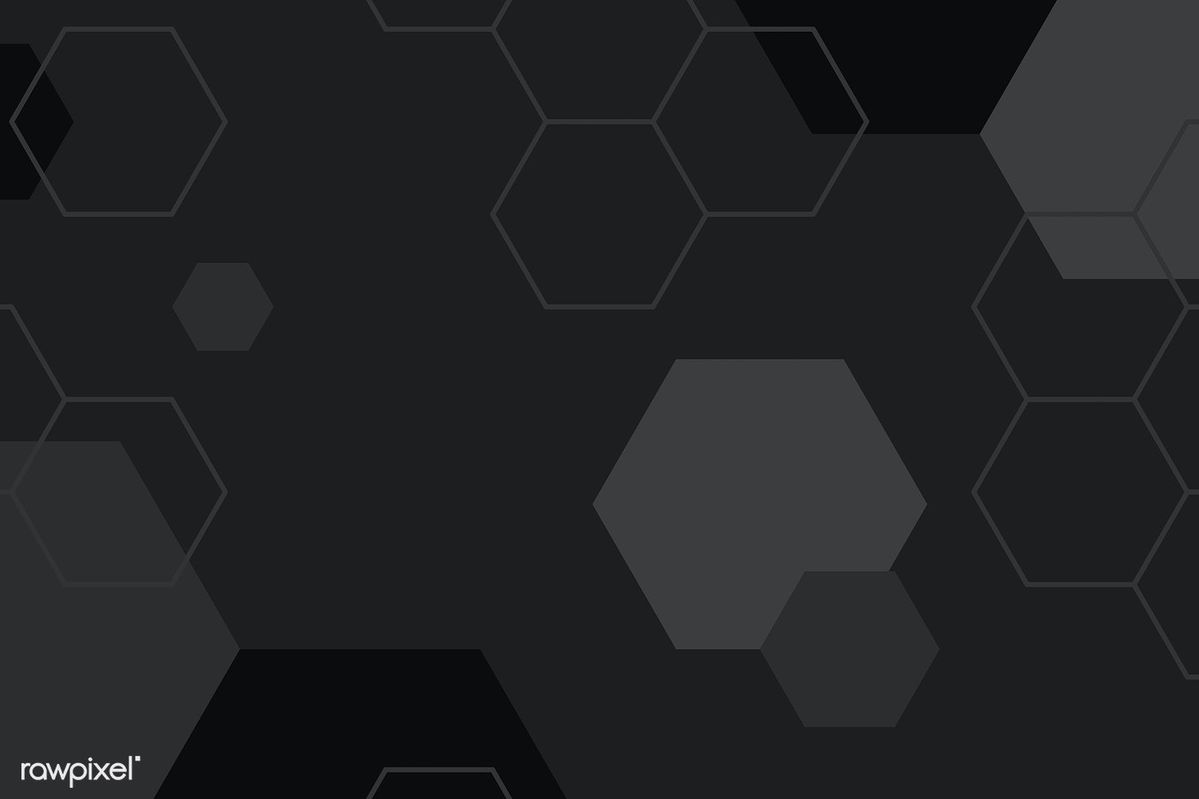
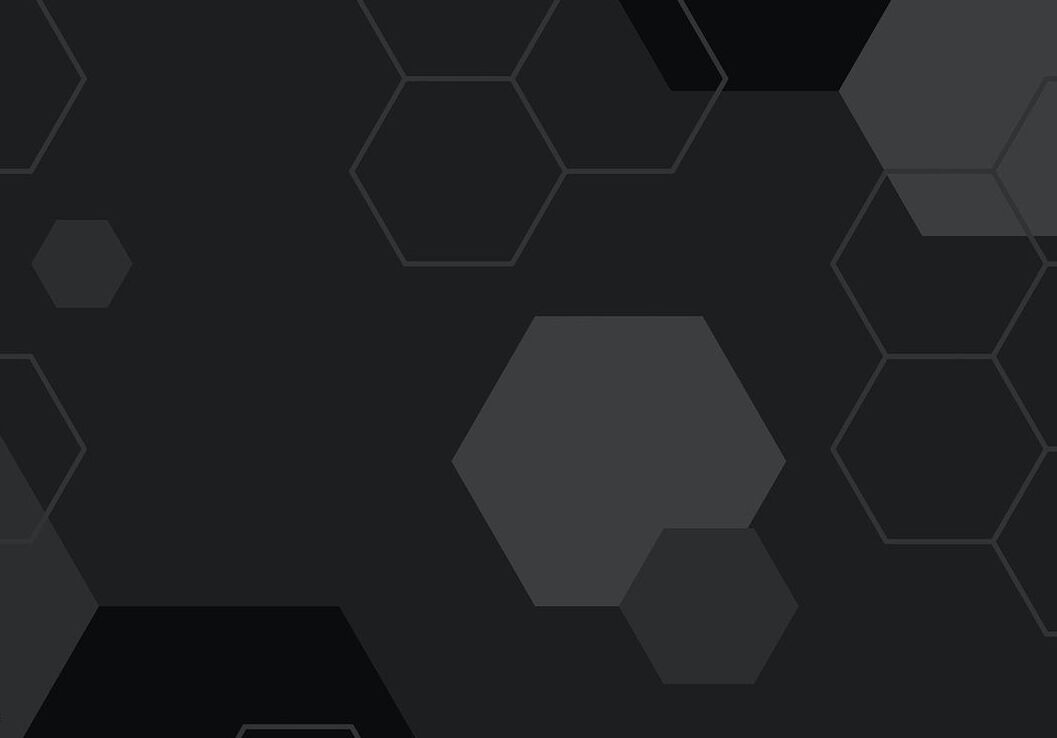
update exercice-fergani branch: added new assets and component updates

diff --git a/iron-gym/src/Component/ExerciseGuide/ExerciseGuide.jsx b/iron-gym/src/Component/ExerciseGuide/ExerciseGuide.jsx
@@ -2,6 +2,9 @@ import React, { useContext, useEffect, useState } from 'react';
 import { Link, useParams } from 'react-router-dom';
 import axios from 'axios';
 import { UserContext } from '../../Context/UserContext';
+import Loading from '../Loading/Loading';
+import bg from '../../assets/bg.jpg';
+import bg_dmbl from '../../assets/bg_dmbl.jpg';
 
 export default function ExerciseGuide() {
   const { muscleName } = useParams(); // الحصول على اسم العضلة من الـ URL
@@ -45,33 +48,71 @@ export default function ExerciseGuide() {
   }, [muscleName]);
 
   return (
-    <div>
-      <h2 className="text-3xl font-bold mb-4">Exercises for {muscleName}</h2>
+    <section className='bg-[rgb(102,102,102,.3)]'>
+  <div
+          className="h-[70vh] bg-cover bg-center relative"
+          style={{ backgroundImage: `url(${bg_dmbl})` }}
+        >
+          <div className="absolute bottom-0 left-0 w-full">
+          <svg xmlns="http://www.w3.org/2000/svg" viewBox="0 0 1440 320"><path fill="#273036" fill-opacity="0.7" d="M0,128L18.5,128C36.9,128,74,128,111,112C147.7,96,185,64,222,74.7C258.5,85,295,139,332,176C369.2,213,406,235,443,229.3C480,224,517,192,554,192C590.8,192,628,224,665,229.3C701.5,235,738,213,775,213.3C812.3,213,849,235,886,234.7C923.1,235,960,213,997,176C1033.8,139,1071,85,1108,64C1144.6,43,1182,53,1218,74.7C1255.4,96,1292,128,1329,117.3C1366.2,107,1403,53,1422,26.7L1440,0L1440,320L1421.5,320C1403.1,320,1366,320,1329,320C1292.3,320,1255,320,1218,320C1181.5,320,1145,320,1108,320C1070.8,320,1034,320,997,320C960,320,923,320,886,320C849.2,320,812,320,775,320C738.5,320,702,320,665,320C627.7,320,591,320,554,320C516.9,320,480,320,443,320C406.2,320,369,320,332,320C295.4,320,258,320,222,320C184.6,320,148,320,111,320C73.8,320,37,320,18,320L0,320Z"></path></svg>
+          </div>
+        </div>
 
-      {loading ? (
-        <p>Loading exercises...</p>
-      ) : exercises.length === 0 ? (
-        <p>No exercises found for {muscleName}. Try another muscle group.</p>
-      ) : (
-        <ul className="space-y-4">
-         {exercises.map((exercise) => (
-  <li key={exercise._id} className="p-4 border rounded shadow-sm hover:bg-gray-100 transition">
-    <Link to={`/exercise/details/${exercise._id}`}>
-      <h3 className="text-xl font-semibold">{exercise.name}</h3>
-      <img 
-        src={exercise.image} 
-        alt={exercise.name}
-        className="w-full h-48 object-cover mt-2 rounded"
-      />
-      <div className="mt-2">
-        <h4 className="font-medium">Primary Muscle:</h4>
-        <p>{exercise.muscleGroup?.name || exercise.primaryMuscle?.join(', ')}</p>
-      </div>
-    </Link>
-  </li>
-))}   
-        </ul>
-      )}
+
+<div  className="relative w-full bg-repeat bg-top py-10"
+style={{ backgroundImage: `url(${bg})`}}
+>
+
+
+ 
+       <div className='container mx-auto'>
+       <h2 className="text-3xl lg:text-4xl text-orange-500 font-[Anta] mb-4">Exercises {muscleName}</h2>
+  
+  {loading ? (
+   <Loading/>
+  ) : exercises.length === 0 ? (
+    <p>No exercises found for {muscleName}. Try another muscle group.</p>
+  ) : (
+    <div className="grid grid-cols-1 sm:grid-cols-2 md:grid-cols-3 lg:grid-cols-4 gap-4 mt-8 ">
+      {exercises.map((exercise) => (
+        <div
+          key={exercise._id}
+          className="max-w-sm   rounded-lg shadow-sm  "
+        >
+         <div className='bg-  p-4'>
+         <Link to={`/exercise/details/${exercise._id}`}>
+            <img
+              className="m-auto bg-black p-3 rounded-3xl w-64 h-60 object-cover"
+              src={exercise.image}
+              alt={exercise.name}
+            />
+          </Link>
+         </div>
+
+          <div className="p-2 ">
+          <h5 className=" mb-2 font-serif text-xl lg:text-2xl text-center font-bold tracking-tight text-orange-500 dark:text-orange-400 leading-snug">
+  {(() => {
+    const words = exercise.name.split(" ");
+    const firstLine = words.slice(0, 2).join(" ");
+    const rest = words.slice(2).join(" ");
+    return (
+      <>
+        <span className="block">{firstLine}</span>
+        {rest && <span className="block">{rest}</span>}
+      </>
+    );
+  })()}
+</h5>
+
+            
+          </div>
+        </div>
+      ))}
     </div>
+  )}
+       </div>
+  </div>
+    </section>
+  
   );
 }

diff --git a/iron-gym/src/Component/MuscleMap/MuscleMap.jsx b/iron-gym/src/Component/MuscleMap/MuscleMap.jsx
@@ -4,7 +4,6 @@ import Slider from 'react-slick';
 import chest from '../../assets/chest.jpeg';
 import aps from '../../assets/aps.png';
 import adductors from '../../assets/adductors.jpeg';
-import adductors2 from '../../assets/adductors2.jpeg';
 import Bicps from '../../assets/Bicps.png';
 import calves from '../../assets/calves.jpeg';
 import glats from '../../assets/glats.png';
@@ -16,7 +15,8 @@ import sholder from '../../assets/sholder.png';
 import trapizes from '../../assets/trapizes.png';
 import tricps from '../../assets/tricps.png';
 import forearms from '../../assets/forearms.jpeg';
-import background_hexagon from '../../assets/background_hexagon.avif';
+import background_hexagon from '../../assets/background_hexagon.jpg';
+import MuchaTseBle from '../../assets/MuchaTseBle.jpg';
 export default function MuscleMap() {
     const muscleImages = [
         { name: 'Triceps', image: tricps },
@@ -44,7 +44,7 @@ export default function MuscleMap() {
     speed: 500,
     slidesToScroll: 3,
     arrows:false,
-    slidesToShow: 5,
+    slidesToShow: 6,
     
     responsive: [
         {
@@ -73,23 +73,41 @@ export default function MuscleMap() {
 
   return (
 
-    <>
+  
    
       
-      <section>
-      
-<div
-          className="h-screen bg-cover bg-center relative flex flex-col justify-center items-start text-center"
-          style={{ backgroundImage: `url(${background_hexagon})` }}
-        >
-          
-        </div>
+      <section className='bg-[rgb(102,102,102,.3)]'>
+   <div className="relative w-full h-screen overflow-hidden mb-12">
+  {/* الصورة */}
+  <img
+    src={MuchaTseBle}
+    alt="background"
+    className="absolute top-0 left-0 w-full h-full object-cover object-left"
+  />
+
+  {/* الـ Overlay للنص */}
+  <div className="absolute inset-0 bg-black/15 flex flex-col justify-center items-start px-8 sm:px-16 md:px-24">
+    <h1 className="text-4xl sm:text-5xl font-semibold text-white mb-4">
+      Exercise&nbsp;&nbsp;Guides And Videos
+    </h1>
+    <p className="text-xl sm:text-2xl text-white mb-6">
+      Explore by muscle groups
+    </p>
+    <h2 className="text-5xl sm:text-7xl font-extrabold text-white leading-tight tracking-wider">
+      BREATH,<br />
+      TRAIN,<br />
+      ACHIEVE.
+    </h2>
+  </div>
+</div>
 
 
 
 
 
-       <Slider {...settings}>
+
+  <div className='container mx-auto '>
+  <Slider {...settings}>
 {muscleImages.map((muscle, index) =>(
 
 <Link to="" onClick={() => handleMuscleClick(muscle.name)}>
@@ -108,10 +126,13 @@ export default function MuscleMap() {
 
 
 </Slider> 
+  </div>
+
+      
       </section>
 
 
-    </>
+    
     
   );
 }
